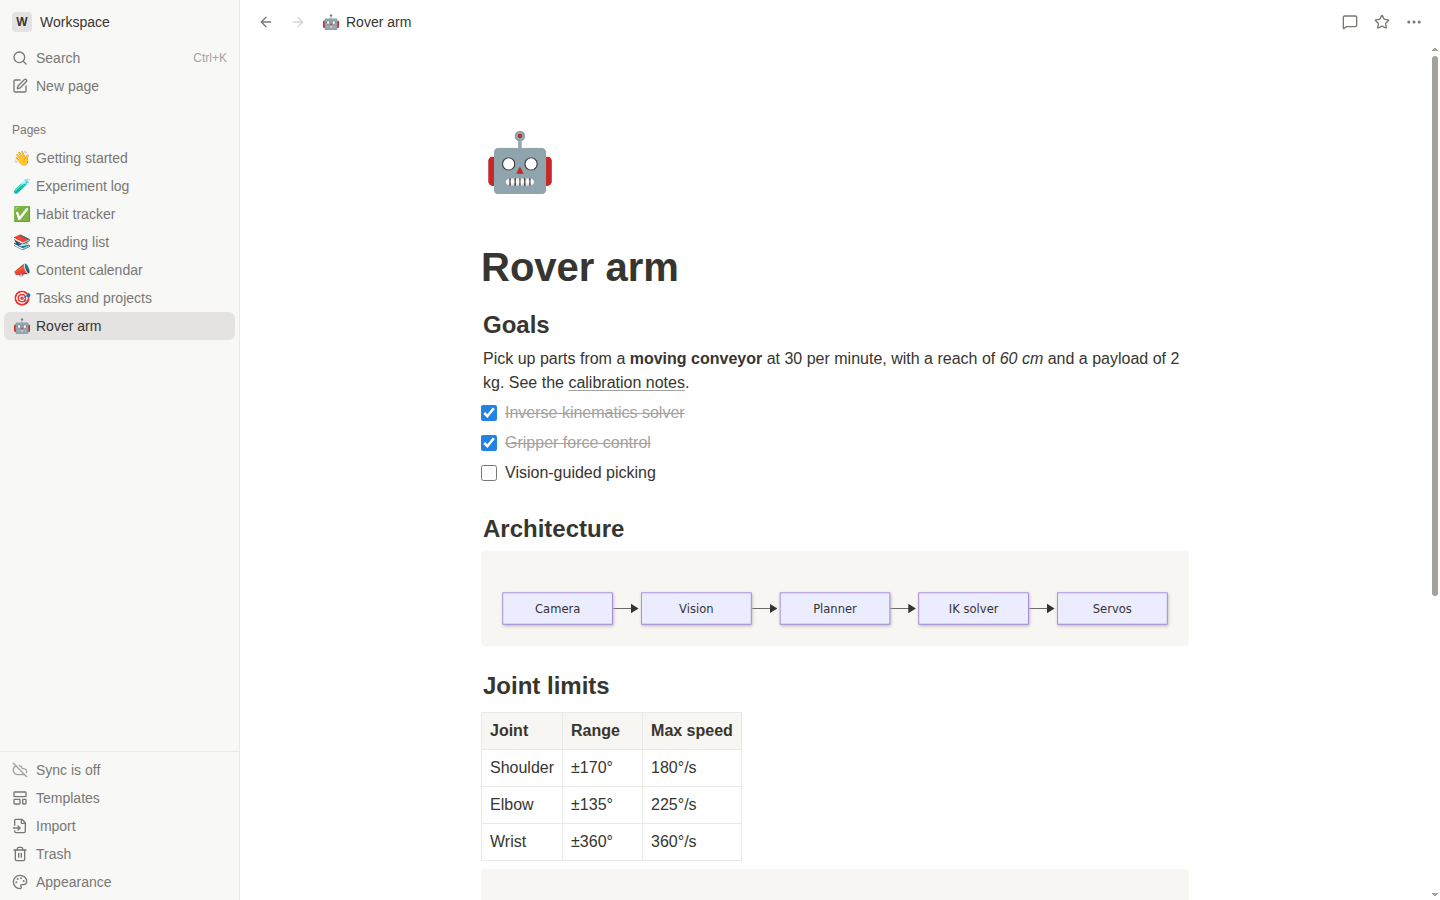
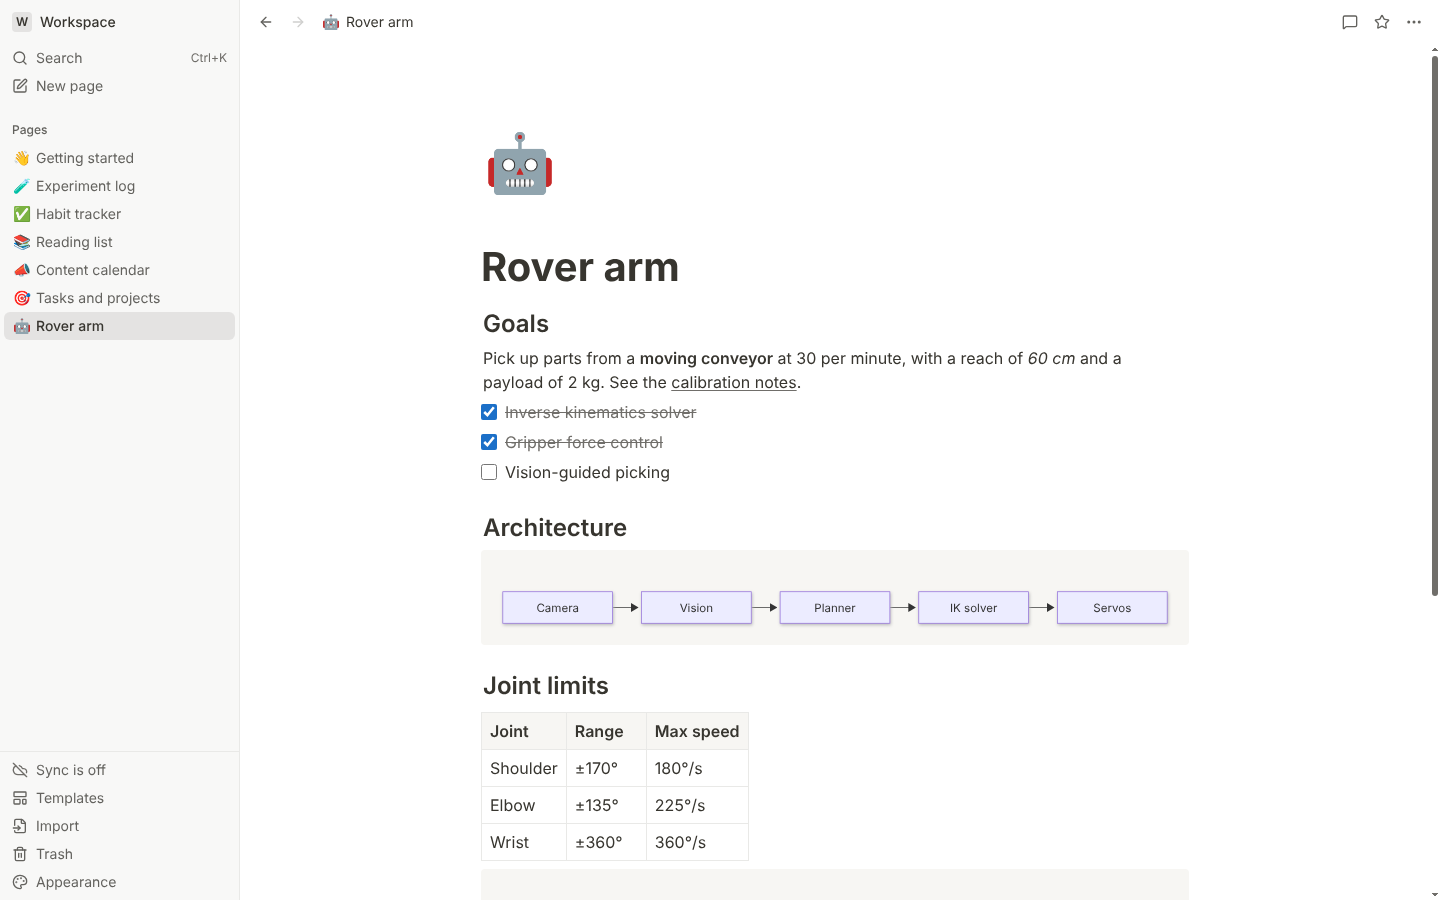
Phase 7 M2: record the runs; new README screenshots
The colours changed, so the screenshots are made again. The screenshot
spec's slash-menu step now types into the page's last, empty paragraph
(Ctrl+End put the cursor in the code block above it).

Claude-Session: https://claude.ai/code/session_01LUtDPU1zH9hmBs7gmKKz43

diff --git a/apps/desktop/e2e/readme-shots.spec.ts b/apps/desktop/e2e/readme-shots.spec.ts
@@ -100,10 +100,9 @@ test('README screenshots', async ({ launch }) => {
   await window.mouse.click(1300, 860);
   await shot(window, 'editor');
 
-  // The slash menu, at the end of the page.
-  await editor(window).first().locator('p').last().click();
-  await window.keyboard.press('Control+End');
-  await window.keyboard.press('Enter');
+  // The slash menu, in the empty paragraph that ends the page (after the code block: Ctrl+End
+  // would put the cursor in the code).
+  await editor(window).first().locator('> p:last-child').click();
   await window.keyboard.type('/');
   await expect(window.getByTestId('slash-menu')).toBeVisible();
   await shot(window, 'slash-menu');

diff --git a/docs/PHASE7.md b/docs/PHASE7.md
@@ -375,7 +375,11 @@ moves; `dated.spec.ts` passes five runs in a row. Web E2E: 3 passed.
   system's reduced motion setting, no transitions, animations or smooth scrolling (JS scrolling
   included).
 - **Not automated:** the check with Orca on Ubuntu, by hand, is part of the release check.
-- **Runs:** see the commit that records them.
+- **Runs:** unit tests all pass; desktop E2E 153 passed (3 skipped) twice, web E2E 3 passed.
+  The first full runs caught two regressions from this work, both fixed: a click into a wide
+  table selected its first cell (for the keyboard) and scrolled the clicked one away, and a
+  dialog's focus return pulled the focus out of a dialog opened straight after it. The README
+  screenshots are new (the colours changed).
 
 ### M3: languages and formats (≈ 1 week)
 
